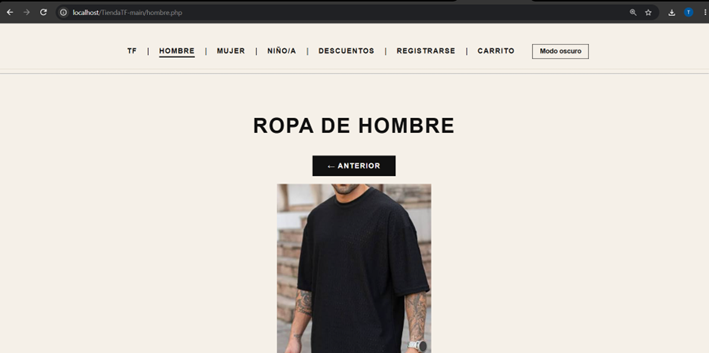
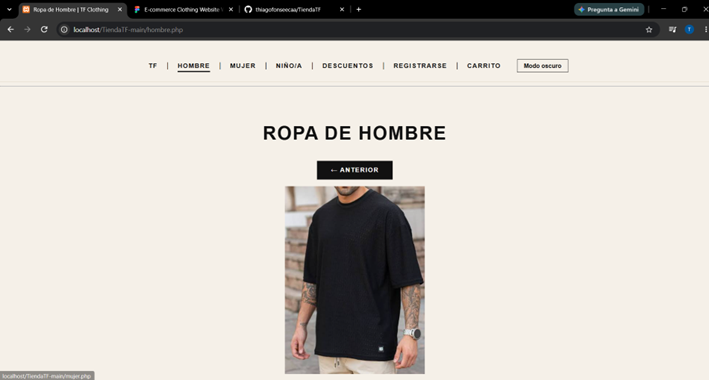
docs: agrega README y actualiza capturas del TP4

diff --git a/README.md b/README.md
@@ -1,0 +1,109 @@
+# TF Clothing — Trabajo Práctico N° 4
+
+Tienda de ropa urbana de Salta desarrollada para la materia Programación Web.
+
+En este trabajo migré las 16 páginas de HTML a PHP y separé el encabezado, el menú y el pie de página en archivos compartidos. También incorporé títulos dinámicos, el resaltado de la sección actual y la configuración mediante un archivo .env.
+
+## Prototipo original
+
+[Ver el diseño en Figma](https://www.figma.com/make/tv5U9vIkVLTHbOQ5vmi3XA/E-commerce-Clothing-Website-Wireframes)
+
+El prototipo corresponde al diseño inicial. La apariencia del sitio fue cambiando durante el desarrollo.
+
+## Tecnologías utilizadas
+
+- HTML5
+- CSS3
+- JavaScript
+- PHP 8.2
+- XAMPP y Apache
+- Git y GitHub
+
+## Instalación y ejecución local
+
+1. Instalar XAMPP con PHP 8.x.
+2. Abrir una terminal dentro de C:\xampp\htdocs y clonar el repositorio:
+
+   git clone https://github.com/thiagofonseecaa/TiendaTF.git TiendaTF-main
+
+3. Copiar .env.example y renombrar la copia como .env en la raíz del proyecto.
+4. Completar APP_NAME, APP_EMAIL y APP_ENV en .env.
+5. Iniciar Apache desde el panel de XAMPP.
+6. Abrir http://localhost/TiendaTF-main/index.php en el navegador.
+
+El sitio debe ejecutarse mediante Apache para que PHP procese las páginas.
+
+## Organización del proyecto
+
+- includes/header.php: estructura inicial, metadatos, título y hoja de estilos.
+- includes/nav.php: menú compartido y clase active según la página actual.
+- includes/footer.php: enlaces del pie, año actual, nombre del sitio y scripts.
+- config/env.php: lectura de la configuración.
+- css/: estilos del sitio.
+- js/: interacciones, formulario, modo oscuro y galerías.
+- imagenes/: imágenes utilizadas.
+- capturas/: evidencias del trabajo.
+- Archivos .php en la raíz: contenido de las 16 páginas.
+
+Las páginas utilizan require_once para incorporar las plantillas.
+
+## Configuración
+
+El archivo .env contiene estas variables:
+
+- APP_NAME: nombre del sitio.
+- APP_EMAIL: correo de contacto.
+- APP_ENV: entorno de ejecución, configurado como local.
+
+config/env.php lee estos valores con parse_ini_file.
+El nombre configurado se utiliza en el pie de página y como título predeterminado.
+
+.env está excluido mediante .gitignore.
+.env.example se incluye como plantilla para ejecutar el proyecto en otra computadora.
+
+## Funcionalidades
+
+- Títulos generados con PHP mediante $titulo_pagina.
+- Menú con la sección actual subrayada.
+- Plantillas compartidas entre las páginas.
+- Año del pie generado con PHP.
+- Modo oscuro.
+- Galerías de productos con ampliación de imágenes.
+- Preguntas frecuentes desplegables.
+- Saludo de bienvenida una vez por sesión de pestaña al entrar al inicio.
+- Validación básica y resumen del formulario con JavaScript.
+
+El registro y el carrito forman parte de la maqueta. No se guardan usuarios ni se procesan compras.
+
+## Capturas de funcionamiento
+
+### Sitio ejecutándose en localhost
+
+![Inicio del sitio en localhost](capturas/localhost.png)
+
+### Plantillas compartidas
+
+![Código del header](capturas/header.png)
+
+![Código del menú](capturas/nav.png)
+
+![Código del footer](capturas/footer.png)
+
+### Integración en la página de inicio
+
+![Variables e inclusión de plantillas en index.php](capturas/index.png)
+
+### Navegación dinámica
+
+![Inicio con TF activo](capturas/activo-inicio.png)
+
+![Página de Hombre con su enlace activo](capturas/activo-hombre.png)
+
+### Plantilla de configuración
+
+![Variables de ejemplo](capturas/env-example.png)
+
+## Control de versiones
+
+La migración se trabajó en la rama feature/migracion-php-ssi,
+con commits separados para las plantillas, su integración y la configuración.
